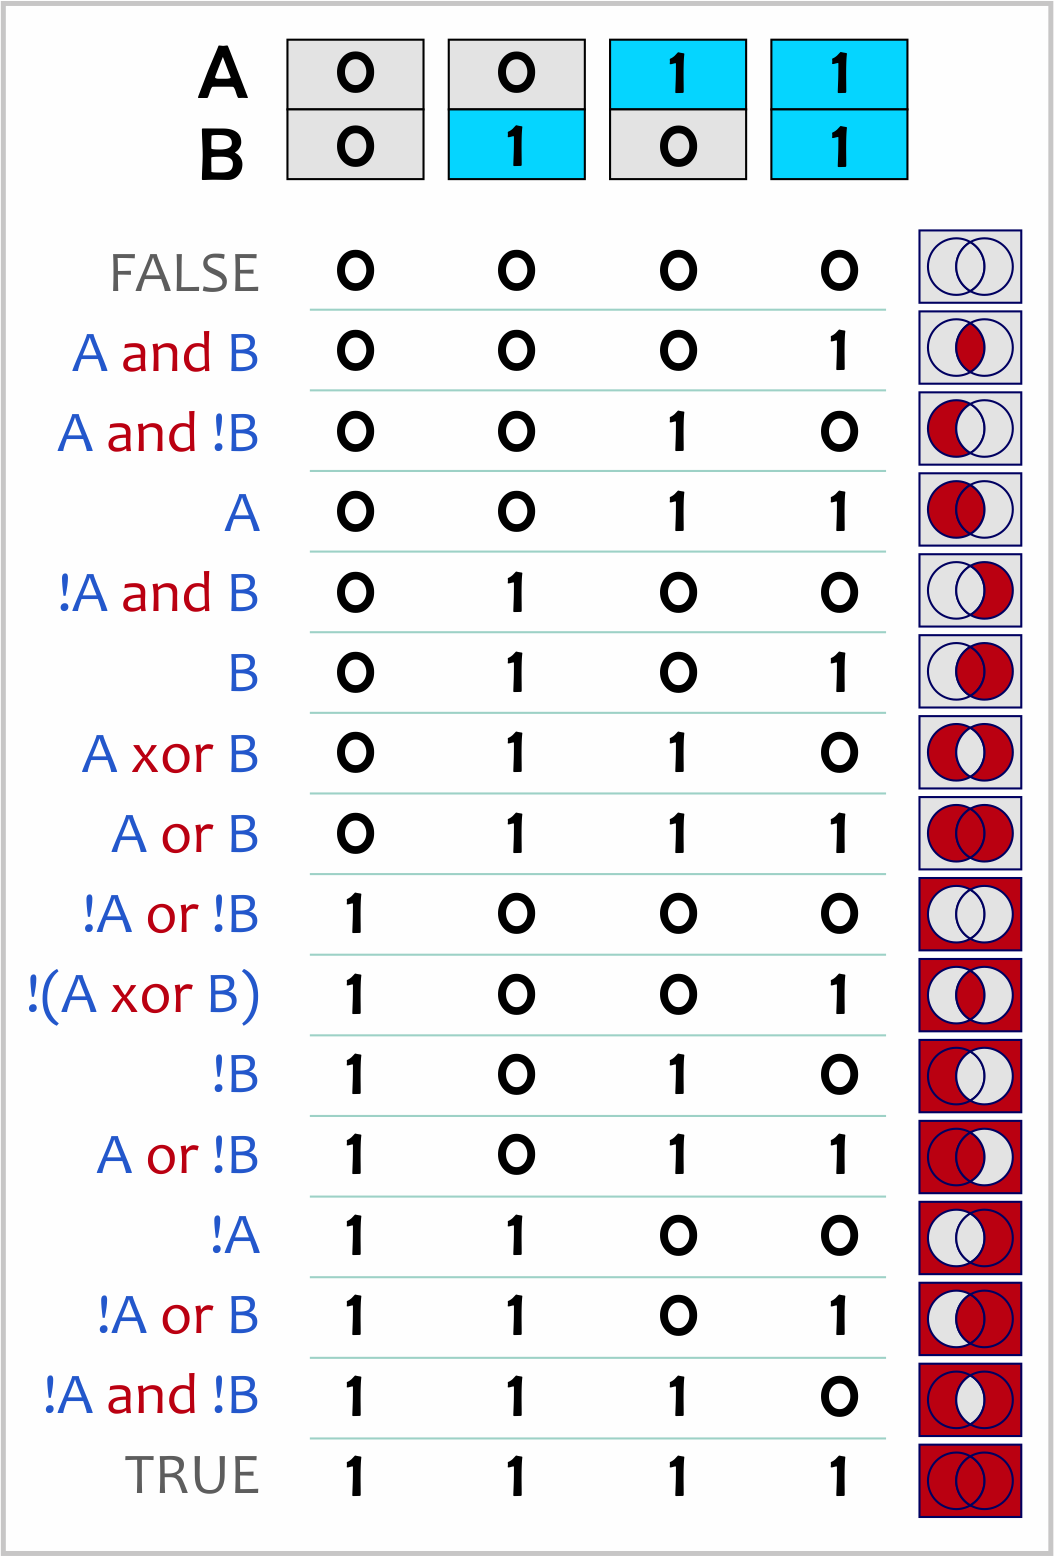
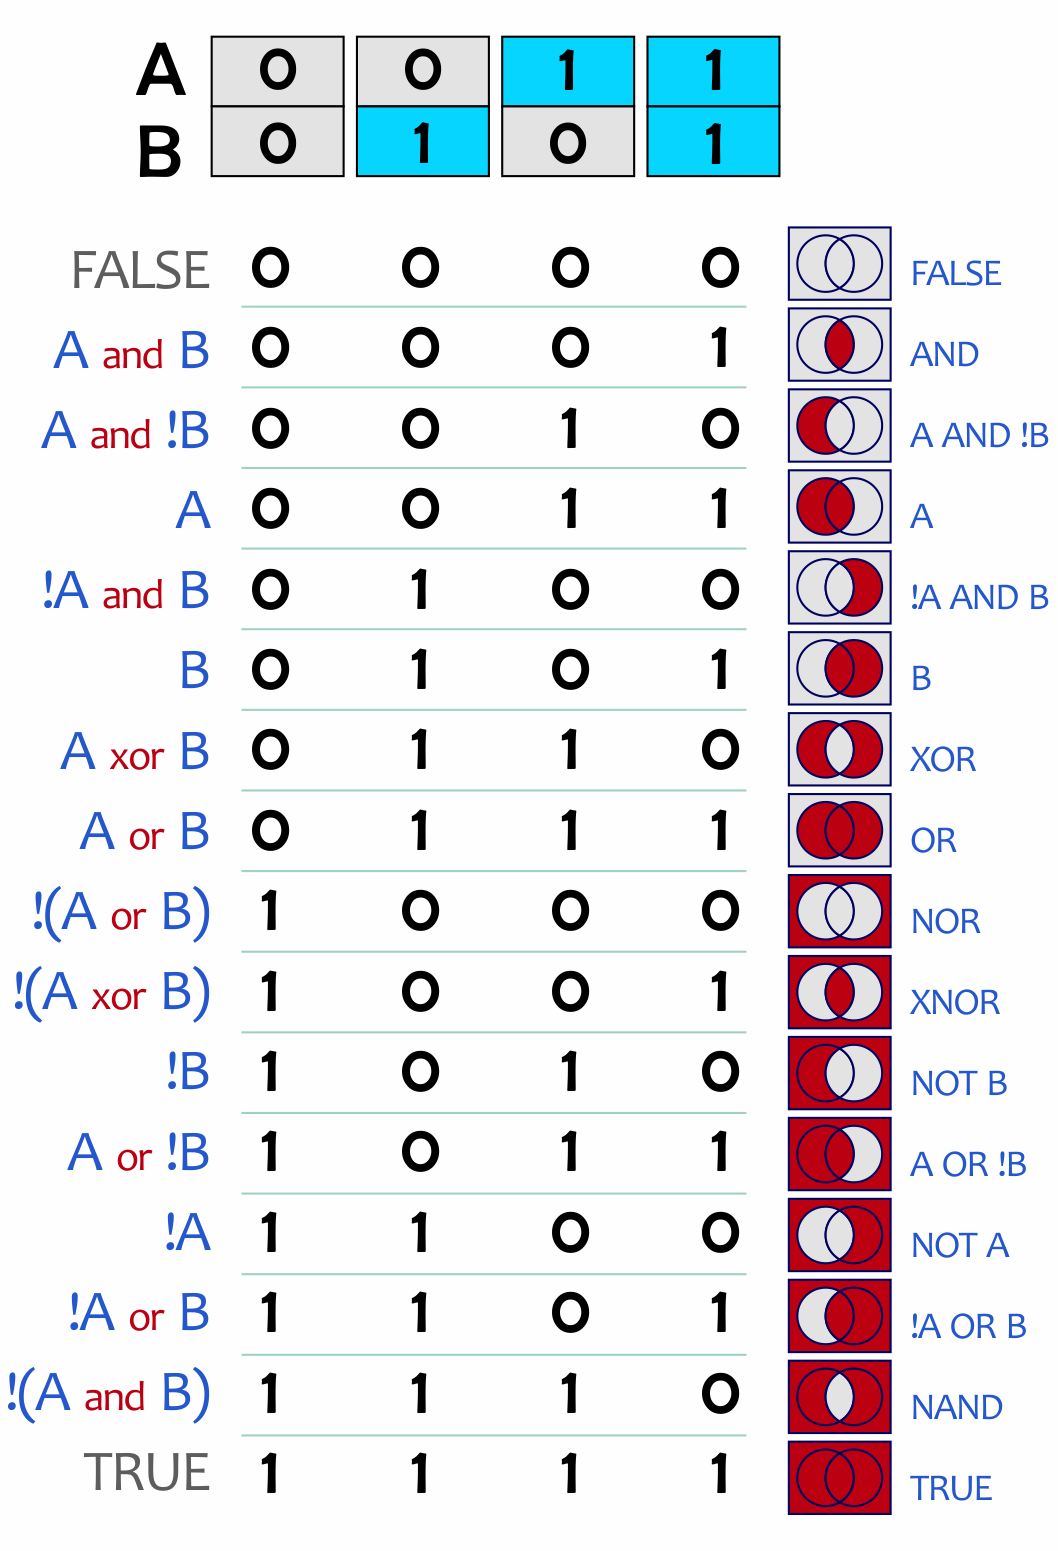
Converted bools to operate on polarity, direction and prescence.

diff --git a/NumbersCore/Primitives/NumberChain.cs b/NumbersCore/Primitives/NumberChain.cs
@@ -298,22 +298,24 @@ namespace NumbersCore.Primitives
                         if(intersection != null)
                         {
                             partial = new Number(intersection, number.Polarity);
+                            partial.Domain = domain;
+                            matches.Add(partial);
                         }
                         else
                         {
-                            partial = new Number(focal.Clone(), Polarity.Inverted); // false
+                            partial = new Number(focal.Clone(), Polarity.None); // false
+                            partial.Domain = domain;
+                            matches.Add(partial);
                         }
-                        partial.Domain = domain;
-                        matches.Add(partial);
                     }
                 }
 
-                if(matches.Count == 0) // empty is false
-                {
-                    var num = new Number(focal, Polarity.Inverted);
-                    num.Domain = domain;
-                    matches.Add(num);
-                }
+                //if(matches.Count == 0) // empty is false
+                //{
+                //    var num = new Number(focal, Polarity.Inverted);
+                //    num.Domain = domain;
+                //    matches.Add(num);
+                //}
                 result.Add(matches.ToArray());
             }
 
@@ -335,58 +337,53 @@ namespace NumbersCore.Primitives
                 {
                     var first = seg[0];
                     var op = operation;
-                    var resultInverted = false;
-                    var resultNegated = false;
                     var opResult = false;
+                    var dirResult = false;
+                    var polResult = false;
                     for (int i = 0; i < seg.Length; i++)
                     {
-                        var right = seg[i];
-                        if (right.IsInverted)
-                        {
-                            //op = op.InverseOp();
-                            //right.InvertPolarity();
-                            //resultInverted = !resultInverted;
-                        }
-                        if (!right.IsUnitPositivePointing)
-                        {
-                            right.Reverse();
-                            resultNegated = !resultNegated;
-                        }
-
+                        var curNum = seg[i];
                         var func = op.GetFunc();
                         if (i == 0)
                         {
-                            if(seg.Length == 1)
+                            polResult = curNum.IsAligned;
+                            dirResult = curNum.IsUnitPositivePointing;
+                            opResult = curNum.HasPolairty;
+                        }
+                        else
+                        {
+                            polResult = func(polResult, curNum.IsAligned); ;
+                            dirResult = func(dirResult, curNum.IsUnitPositivePointing);
+                            opResult = func(opResult, curNum.HasPolairty);
+                        }
+                    }
+
+                    if (opResult)
+                    {
+                        var focal = dirResult ? new Focal(first.MinTickPosition, first.MaxTickPosition) : new Focal(first.MaxTickPosition, first.MinTickPosition);
+                        var polarity = polResult ? Polarity.Aligned : Polarity.Inverted;
+                        if (lastFocal != null && lastPolarity == polarity && lastFocal.IsPositiveDirection == focal.IsPositiveDirection) // merge continuous segments
+                        {
+                            if (lastFocal.IsPositiveDirection)
                             {
-                                opResult = func(false, right.IsAligned);
+                                lastFocal.EndPosition = focal.EndPosition;
                             }
                             else
                             {
-                                opResult = right.IsAligned;
+                                lastFocal.StartPosition = focal.StartPosition;
                             }
                         }
                         else
                         {
-                            opResult = func(opResult, right.IsAligned);
+                            focals.Add(focal);
+                            polarities.Add(polarity);
+                            lastFocal = focal;
+                            lastPolarity = polarity;
                         }
-                    }
-                    var focal = new Focal(first.MinTickPosition, first.MaxTickPosition);
-                    if (resultNegated)
-                    {
-                        focal.Reverse();
-                    }
-                    opResult = resultInverted ? !opResult : opResult;
-                    var polarity = opResult ? Polarity.Aligned : Polarity.Inverted;
-                    if(lastFocal != null && lastPolarity == polarity && lastFocal.IsPositiveDirection && focal.IsPositiveDirection)
-                    {
-                        lastFocal.EndPosition = focal.EndPosition;
                     }
                     else
                     {
-                        focals.Add(focal);
-                        polarities.Add(polarity);
-                        lastFocal = focal;
-                        lastPolarity = polarity;
+                        lastFocal = null;
                     }
                 }
             }

diff --git a/NumbersCore/Primitives/Number.cs b/NumbersCore/Primitives/Number.cs
@@ -5,7 +5,7 @@ using NumbersCore.Utils;
 
 namespace NumbersCore.Primitives
 {
-    public enum Polarity { Unknown, Aligned, Inverted };//, Zero, Max }
+    public enum Polarity { None, Unknown, Aligned, Inverted };//, Zero, Max }
 
     /// <summary>
     /// Numbers are intervals, calculated by uniting a Focal with a Domain. They supplement a Focal with Polarity.
@@ -50,6 +50,7 @@ namespace NumbersCore.Primitives
         }
         public int PolarityDirection => IsAligned ? 1 : -1;
         public bool IsAligned => Polarity == Polarity.Aligned;
+        public bool HasPolairty => Polarity == Polarity.Aligned || Polarity == Polarity.Inverted;
         public bool IsInverted => !IsAligned;
         public int Direction => BasisFocal.Direction * PolarityDirection;
         protected long StartTickPosition
@@ -109,8 +110,8 @@ namespace NumbersCore.Primitives
         public bool IsBasis => Domain.BasisFocal.Id == Focal.Id;
         public bool IsMinMax => Domain.MinMaxNumber.Id == Id;
         public bool IsDomainNumber => IsBasis || IsMinMax;
-        public bool IsPositivePointing => (IsAligned && EndTickPosition > StartTickPosition) || (!IsAligned && EndTickPosition < StartTickPosition);
-        public bool IsUnitPositivePointing =>  EndTickPosition > StartTickPosition;
+        public bool IsPositivePointing => HasPolairty && (IsAligned && EndTickPosition > StartTickPosition) || (!IsAligned && EndTickPosition < StartTickPosition);
+        public bool IsUnitPositivePointing =>  HasPolairty && (EndTickPosition > StartTickPosition);
 
         public int StoreIndex { get; set; } // order added to domain
 

diff --git a/Numbers/Mappers/SKDomainMapper.cs b/Numbers/Mappers/SKDomainMapper.cs
@@ -367,8 +367,8 @@ namespace Numbers.Mappers
                     int index = 0;
                     foreach(var num in numberSet.InternalNumbers())
                     {
-                        if (num.IsAligned || num.IsPositivePointing) // dont draw default false numbers (they point unit right, so negative).
-                        {
+                        //if (num.IsAligned)// || num.IsPositivePointing) // don't draw default false numbers (they point unit right, so negative).
+                        //{
                             var numMap = new SKNumberMapper(Agent, num);
                             DrawNumber(numMap, offset + topDir * 2, isSelected);
                             if (index == 0)
@@ -377,7 +377,7 @@ namespace Numbers.Mappers
                                 index++;
                             }
                             pts[1] = numMap.RenderSegment.EndPoint;
-                        }
+                        //}
                     }
                     if(index > 0 && pts.Length > 1)
                     {

diff --git a/NumbersCore/Primitives/Focal.cs b/NumbersCore/Primitives/Focal.cs
@@ -201,11 +201,11 @@ namespace NumbersCore.Primitives
         public static Focal Intersection(Focal p, Focal q)
         {
             Focal result = null;
-            var start = MaxStart(p, q);
-            long end = MinEnd(p, q);
-            if(end > start)
+            var ov = Overlap(p, q);
+            if(ov.LengthInTicks != 0)
             {
-                result = new Focal(start, end);
+                result = ov;
+                if (!p.IsPositiveDirection) { ov.Reverse(); }
             }
             return result;
         }

diff --git a/MathDemo/Slides.cs b/MathDemo/Slides.cs
@@ -723,7 +723,7 @@
                };
             wm.CreateTextMapper(txt, new SKSegment(50, 50, 100, 50));
 
-            wm.CreateImageMapper("boolOps.png", new SKSegment(50, 160, 350, 160));
+            wm.CreateImageMapper("boolOps.png", new SKSegment(40, 150, 380, 150));
 
             var hd = wm.GetOrCreateDomainMapper(Domain.CreateDomain("Bool", wm.DefaultDomainTicks, wm.DefaultDomainRange));
             hd.ShowNumbersOffset = true;
